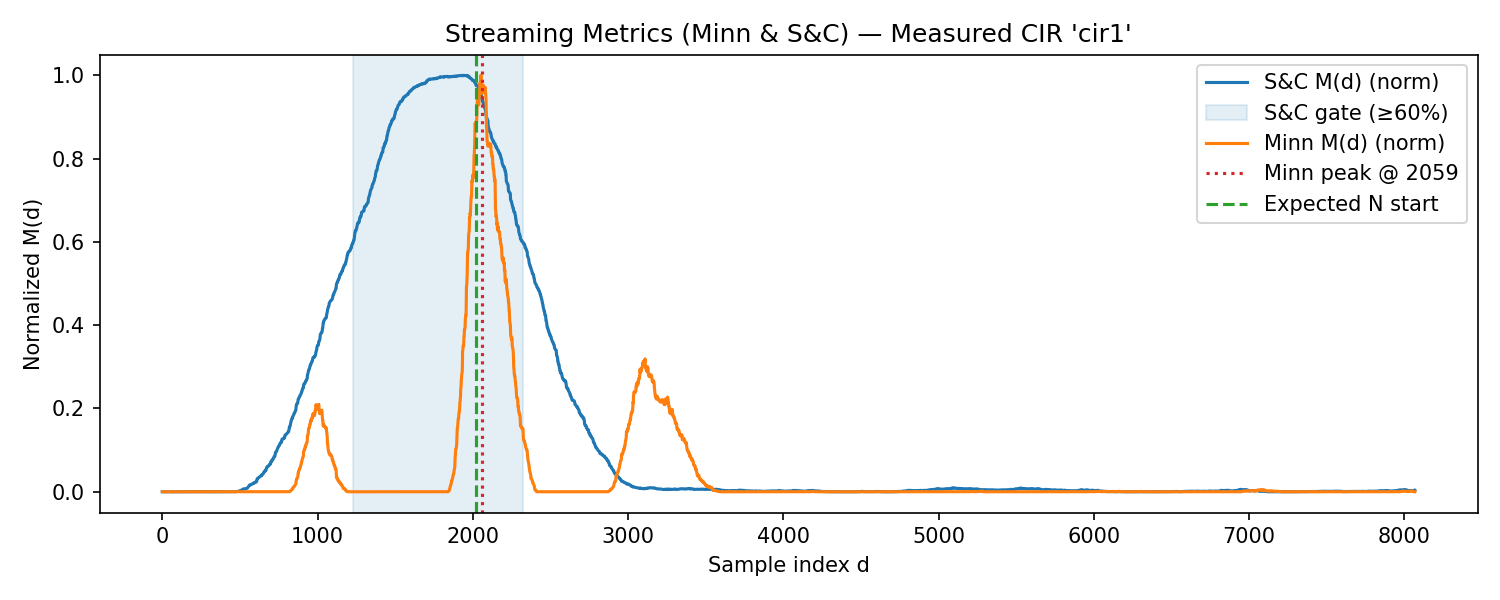
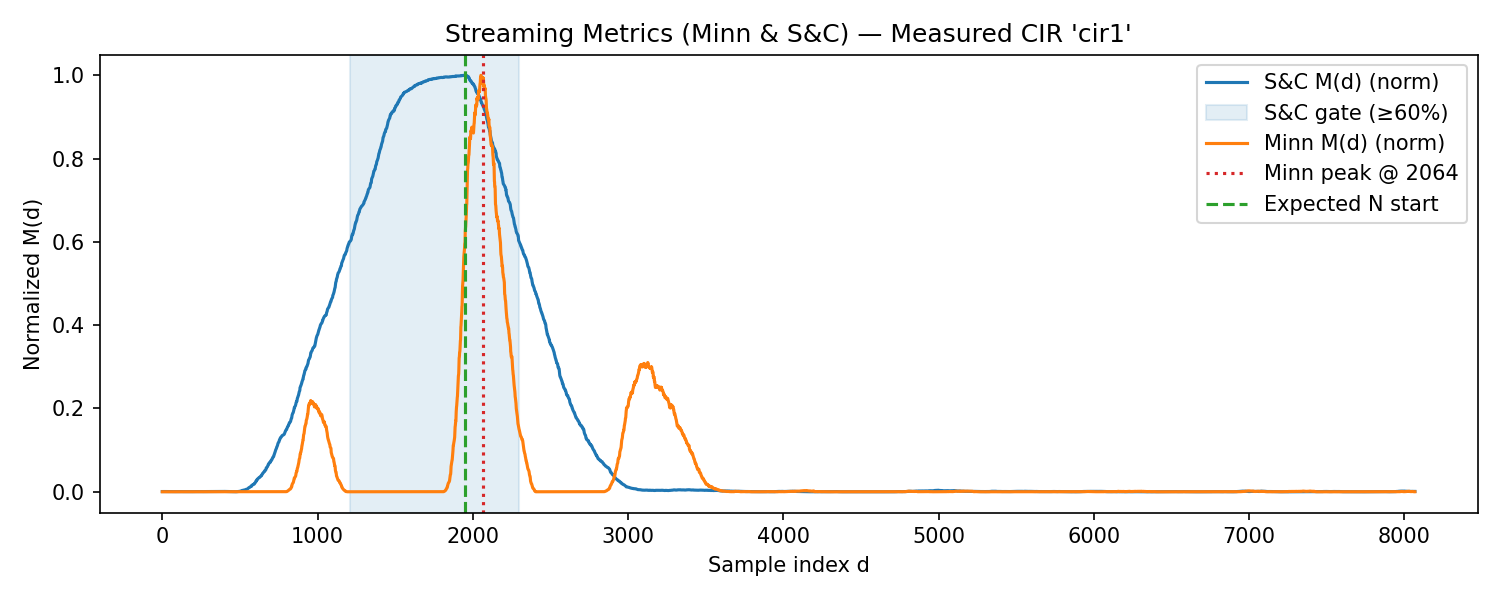
combined 2rx metric when cir is used

diff --git a/minn.py b/minn.py
@@ -316,12 +316,15 @@ def run_simulation(channel_name: str | None, plots_subdir: str):
     frame = np.concatenate((minn_preamble, pilot_symbol, data_symbol))
     tx_samples = np.concatenate((np.zeros(TX_PRE_PAD_SAMPLES, dtype=complex), frame))
     
-    # Channel: use only ch1 (index 1) for SISO when a profile is set
+    # Channel: use all available RX branches from the measured CIR (default to first two)
     if channel_name is None:
         channel_impulse_response = None
     else:
         cir_bank = load_measured_cir(channel_name)
-        channel_impulse_response = cir_bank[1:2]  # shape (1, taps)
+        if cir_bank.shape[0] > 2:
+            channel_impulse_response = cir_bank[:2].copy()
+        else:
+            channel_impulse_response = cir_bank.copy()
     
     rx_samples = apply_channel(
         tx_samples,
@@ -508,8 +511,10 @@ def run_simulation(channel_name: str | None, plots_subdir: str):
     print(f"Transmit sequence length: {tx_samples.size} samples")
     print(f"Receive branches: {1 if rx_samples.ndim == 1 else rx_samples.shape[0]}")
     if channel_impulse_response is not None:
+        num_rx = channel_impulse_response.shape[0]
         print(
-            f"Applied measured channel '{channel_name}' (ch1 only) taps={channel_impulse_response.shape[1]} main-path offset={channel_peak_offset}",
+            f"Applied measured channel '{channel_name}' using {num_rx} RX branch(es) "
+            f"taps={channel_impulse_response.shape[1]} main-path offset={channel_peak_offset}",
         )
     else:
         print("Channel profile: Flat AWGN (no multipath)")
